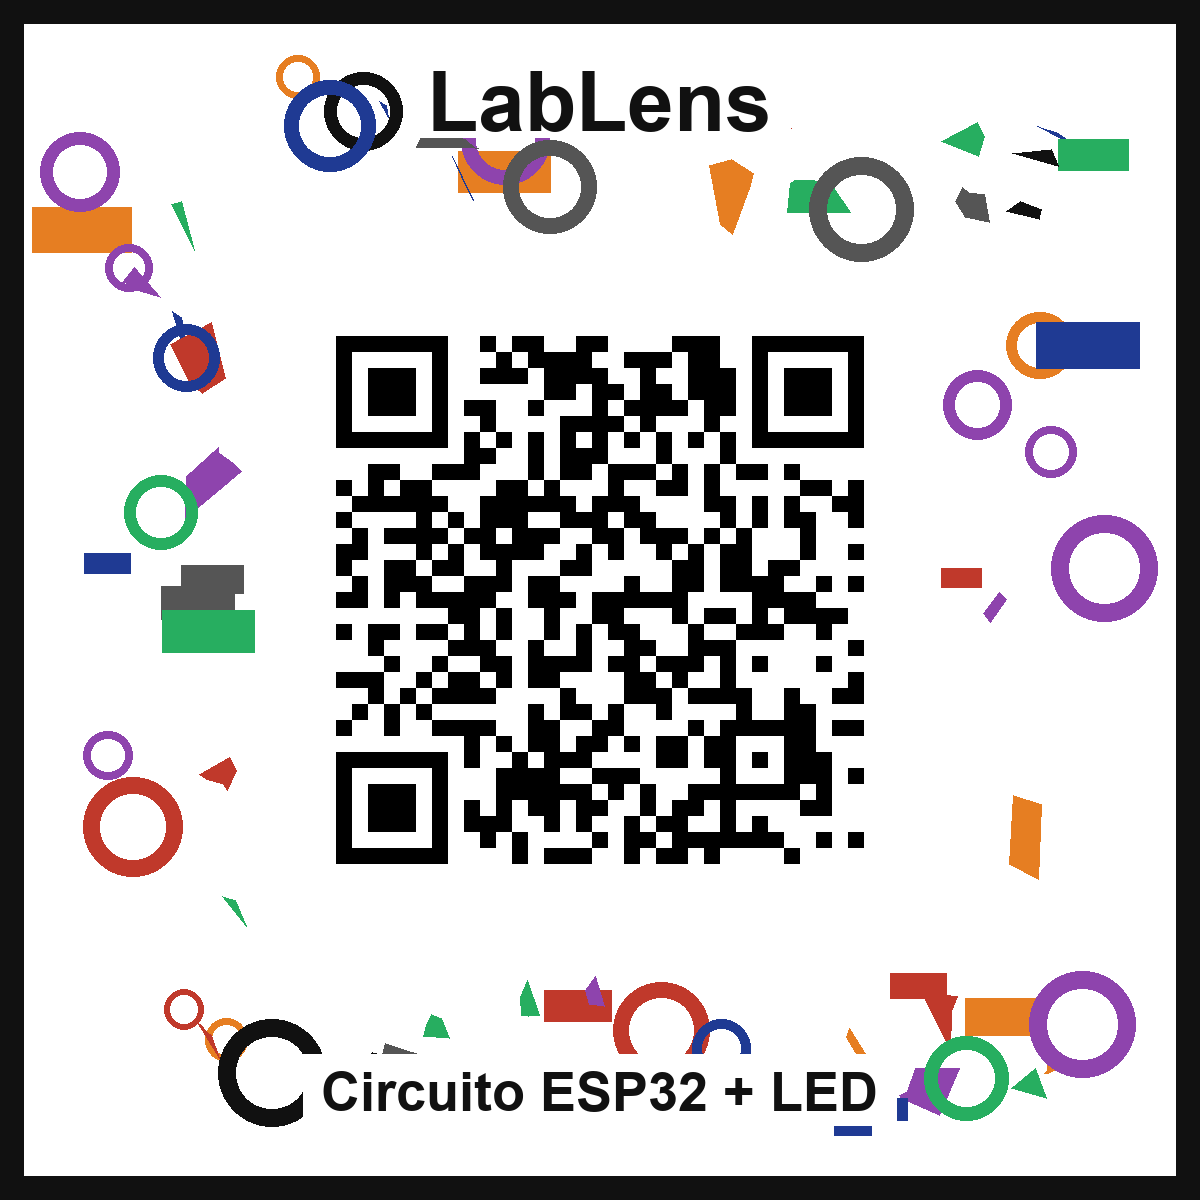
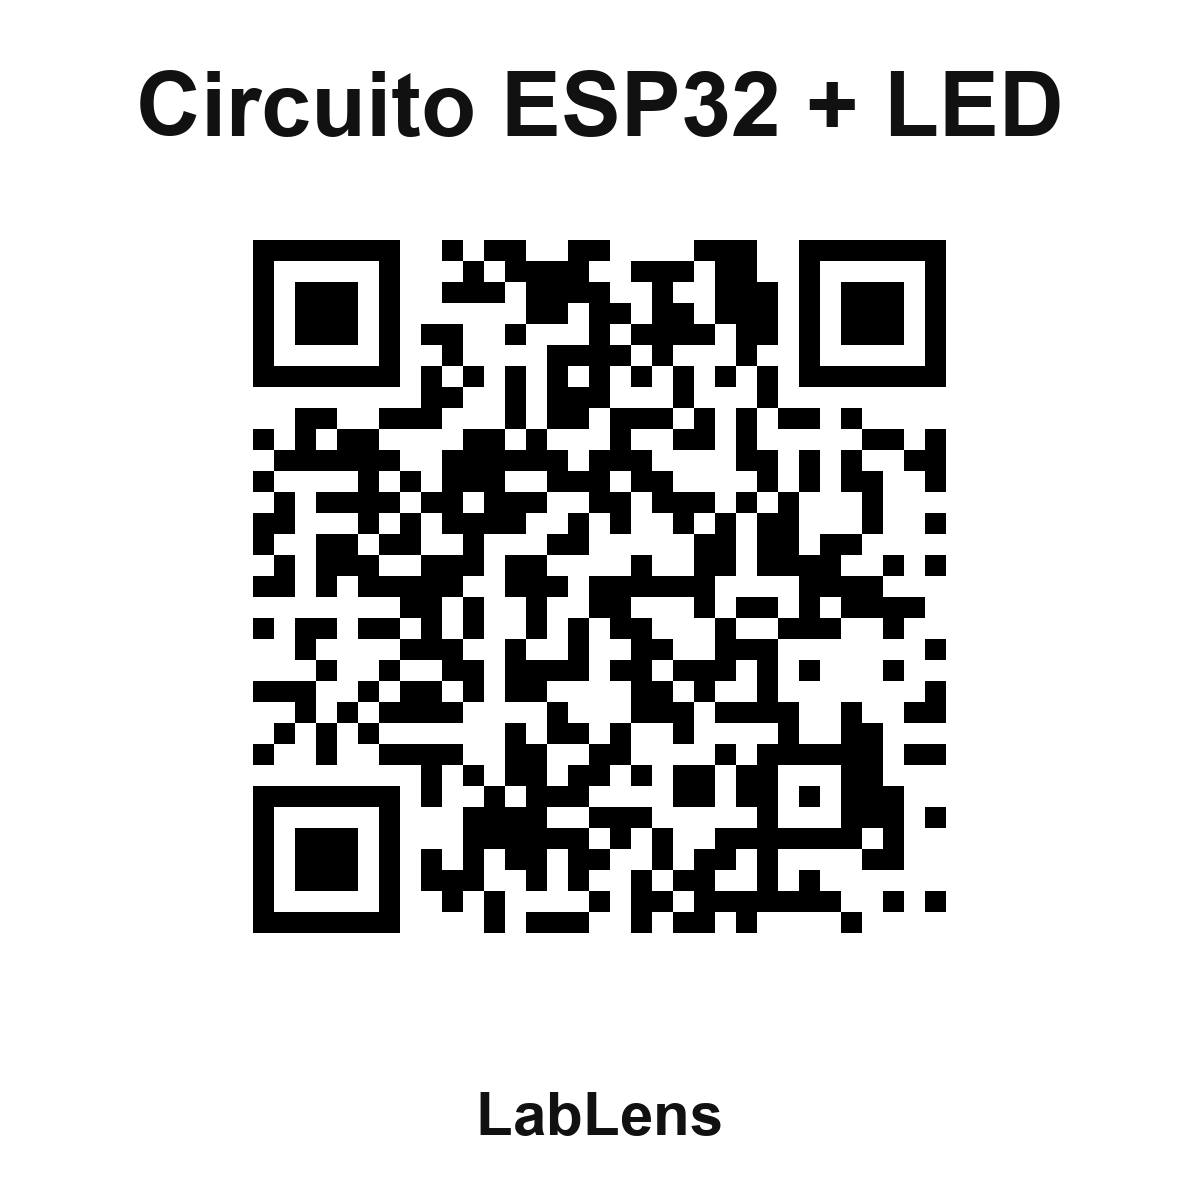
Ajustes finais. alterado o QRcode do circuito

diff --git a/src/features/lab-ar/content/circuito-esp32-led.ts b/src/features/lab-ar/content/circuito-esp32-led.ts
@@ -9,9 +9,9 @@ import { EquipamentoAR } from '../types';
  * -> barramento − -> fio laranja -> GND do ESP32.
  *
  * O alvo (assets/markers/circuito-esp32-led-qrcode.png) e o QR Code de
- * identificacao do circuito, numa moldura com desenhos que garante o
- * reconhecimento pelo ARCore. Gerado por scripts/gerar-qrcode-circuito.py, que
- * tambem calcula as posicoes (u, v) das partes. O modelo 3D (escala real) fica
+ * identificacao do circuito, com o nome dele em cima. Gerado por
+ * scripts/gerar-qrcode-circuito.py, que tambem calcula as posicoes (u, v) das
+ * partes. O modelo 3D (escala real) fica
  * centrado no QR Code; as partes fora do adesivo tem u ou v fora de 0..1.
  */
 

diff --git a/scripts/gerar-qrcode-circuito.py b/scripts/gerar-qrcode-circuito.py
@@ -6,9 +6,9 @@ A ideia e que cada circuito do laboratorio tenha o seu adesivo: o QR Code
 identifica o circuito, e o app reconhece o adesivo e mostra o modelo 3D do
 circuito em cima dele.
 
-Um QR Code sozinho e um padrao repetitivo de quadrados, ruim para o ARCore.
-Por isso o QR fica no centro de uma moldura com desenhos, texto e cores sem
-repeticao nem simetria: e a moldura que garante o reconhecimento rapido.
+O adesivo tem so o QR Code, com o nome do circuito em cima e o nome do app
+embaixo. Os textos tambem ajudam o ARCore, porque o QR Code sozinho e um
+padrao repetitivo de quadrados.
 
 O modelo 3D (assets/models/circuito-esp32-led.glb, em escala real) e centrado
 no adesivo, deitado no mesmo plano, girado para a protoboard ficar na
@@ -25,7 +25,6 @@ Uso:  python scripts/gerar-qrcode-circuito.py   (requer Pillow e segno)
 """
 import math
 import os
-import random
 
 import segno
 from PIL import Image, ImageDraw, ImageFont
@@ -37,7 +36,6 @@ CONTEUDO_QR = "LabLens:circuito-esp32-led"
 NOME = "Circuito ESP32 + LED"
 LARGURA_METROS = 0.06  # tamanho real do adesivo impresso (ou exibido na tela)
 TAMANHO_PX = 1200
-SEMENTE = 2026  # fixa o desenho da moldura: rodar de novo gera a mesma imagem
 
 ESCALA_MODELO = 0.5  # metade do tamanho real: a protoboard fica com ~8 x 3 cm sobre o QR Code de 6 cm
 ROTACAO_Y = 90  # graus; deita a protoboard na horizontal, com o ESP32 a esquerda
@@ -55,7 +53,6 @@ PARTES = {
 
 # Fontes com acentos (Windows, Linux, macOS); sem nenhuma delas, usa a fonte embutida do Pillow.
 FONTES = ["arialbd.ttf", "DejaVuSans-Bold.ttf", "/System/Library/Fonts/Supplemental/Arial Bold.ttf"]
-CORES = ["#111111", "#1f3a93", "#c0392b", "#e67e22", "#27ae60", "#8e44ad", "#555555"]
 
 
 def fonte(tamanho):
@@ -67,64 +64,31 @@ def fonte(tamanho):
     return ImageFont.load_default(size=tamanho)
 
 
-def desenhar_moldura(desenho, t, area_livre):
-    """Formas aleatorias (com semente fixa) so na moldura, fora da area do QR Code."""
-    sorteio = random.Random(SEMENTE)
-    x0, y0, x1, y1 = area_livre
-    colocadas = 0
-    while colocadas < 70:
-        cx, cy = sorteio.uniform(0.06, 0.94) * t, sorteio.uniform(0.06, 0.94) * t
-        raio = sorteio.uniform(0.015, 0.045) * t
-        if x0 - raio < cx < x1 + raio and y0 - raio < cy < y1 + raio:
-            continue
-        cor = sorteio.choice(CORES)
-        forma = sorteio.random()
-        if forma < 0.45:
-            lados = sorteio.randint(3, 6)
-            angulos = sorted(sorteio.uniform(0, 2 * math.pi) for _ in range(lados))
-            pontos = []
-            for a in angulos:
-                r = raio * sorteio.uniform(0.5, 1)
-                pontos.append((cx + r * math.cos(a), cy + r * math.sin(a)))
-            desenho.polygon(pontos, fill=cor)
-        elif forma < 0.75:
-            desenho.ellipse([cx - raio, cy - raio, cx + raio, cy + raio], outline=cor, width=max(3, int(raio * 0.35)))
-        else:
-            desenho.rectangle([cx - raio, cy - raio * 0.45, cx + raio, cy + raio * 0.45], fill=cor)
-        colocadas += 1
-
-
 def main():
     t = TAMANHO_PX
     imagem = Image.new("RGB", (t, t), "white")
     desenho = ImageDraw.Draw(imagem)
 
-    # QR Code no centro, ocupando pouco mais da metade do adesivo, com a margem branca exigida pelo padrao.
+    # Nome do circuito em cima, QR Code no centro (com a margem branca exigida pelo padrao) e nome do app embaixo.
+    titulo = fonte(int(t * 0.075))
+    rodape = fonte(int(t * 0.05))
     qr = segno.make(CONTEUDO_QR, error="h")
     modulos = qr.symbol_size(border=4)[0]
-    escala = int(t * 0.56 / modulos)
+    escala = int(t * 0.74 / modulos)
     lado_qr = modulos * escala
-    inicio = (t - lado_qr) // 2
-    matriz = qr.matrix_iter(border=4)
-    for linha, valores in enumerate(matriz):
+    inicio_x = (t - lado_qr) // 2
+    inicio_y = int(t * 0.13)
+    for linha, valores in enumerate(qr.matrix_iter(border=4)):
         for coluna, preto in enumerate(valores):
             if preto:
-                x = inicio + coluna * escala
-                y = inicio + linha * escala
+                x = inicio_x + coluna * escala
+                y = inicio_y + linha * escala
                 desenho.rectangle([x, y, x + escala - 1, y + escala - 1], fill="#000000")
 
-    desenhar_moldura(desenho, t, (inicio, inicio, inicio + lado_qr, inicio + lado_qr))
-
-    # Textos em faixas brancas: ajudam o reconhecimento e identificam o circuito para o aluno.
-    for texto, tamanho, y in (("LabLens", int(t * 0.07), int(t * 0.045)), (NOME, int(t * 0.045), int(t * 0.885))):
-        f = fonte(tamanho)
+    for texto, f, y in ((NOME, titulo, int(t * 0.045)), ("LabLens", rodape, int(t * 0.90))):
         caixa = desenho.textbbox((0, 0), texto, font=f)
-        largura = caixa[2] - caixa[0]
-        x = (t - largura) // 2
-        desenho.rectangle([x - 18, y - 8, x + largura + 18, y + (caixa[3] - caixa[1]) + 22], fill="white")
-        desenho.text((x - caixa[0], y), texto, fill="#111111", font=f)
+        desenho.text(((t - (caixa[2] - caixa[0])) // 2 - caixa[0], y), texto, fill="#111111", font=f)
 
-    desenho.rectangle([0, 0, t - 1, t - 1], outline="#111111", width=int(t * 0.02))
     imagem.save(SAIDA)
 
     print(f"alvo {t}x{t} px, largura fisica = {LARGURA_METROS:.3f} m, conteudo do QR: {CONTEUDO_QR}")

diff --git a/README.md b/README.md
@@ -223,7 +223,7 @@ Conteúdo correspondente é exibido (dados)
 
 O projeto usa **Image Tracking** (rastreamento de imagens naturais): cada objeto possui uma ou mais imagens de referência (os "alvos"). O ARCore procura essas imagens na câmera e estima continuamente sua posição e orientação no espaço. A técnica foi adotada por dispensar o treinamento de modelos de detecção, cujo desempenho em dispositivos móveis ainda é limitado, e por manter o rastreamento mesmo quando a imagem sai temporariamente de vista.
 
-Nos equipamentos, a imagem de referência é uma foto da própria peça. Nos circuitos, cuja aparência muda com a posição dos fios, a referência é um **QR Code de identificação**: cada circuito tem o seu, colado ou exibido ao lado da montagem. Como o QR Code puro é um padrão repetitivo, ruim para o ARCore, ele fica no centro de uma moldura com desenhos e textos sem repetição. O app não decodifica o conteúdo do QR Code: o adesivo inteiro é cadastrado como imagem de referência, e o modelo 3D do circuito aparece centrado nele, deitado na horizontal e em metade do tamanho real, para não cobrir demais o adesivo.
+Nos equipamentos, a imagem de referência é uma foto da própria peça. Nos circuitos, cuja aparência muda com a posição dos fios, a referência é um **QR Code de identificação**: cada circuito tem o seu, colado ou exibido ao lado da montagem. O adesivo traz o QR Code, o nome do circuito em cima e o nome do app embaixo; os textos também ajudam o reconhecimento, já que o QR Code é um padrão repetitivo de quadrados. O app não decodifica o conteúdo do QR Code: o adesivo inteiro é cadastrado como imagem de referência, e o modelo 3D do circuito aparece centrado nele, deitado na horizontal e em metade do tamanho real, para não cobrir demais o adesivo.
 
 O protótipo usa os exemplares abaixo como referência. Outros modelos e circuitos são adicionados pelo cadastro descrito na seção 13.
 
@@ -232,7 +232,7 @@ O protótipo usa os exemplares abaixo como referência. Outros modelos e circuit
 | Multímetro FT-266, frente | `assets/markers/ft266-frente.jpg` | 6,5 cm |
 | Multímetro FT-266, parte de trás | `assets/markers/ft266-traseira.jpg` | 6,5 cm |
 | Protoboard de demonstração | `assets/markers/protoboard-demo.png` | 16,5 cm |
-| Circuito ESP32 + LED | `assets/markers/circuito-esp32-led-qrcode.png` (QR Code com moldura) | 6 cm |
+| Circuito ESP32 + LED | `assets/markers/circuito-esp32-led-qrcode.png` (QR Code com o nome do circuito) | 6 cm |
 
 ### 11.2 Fluxo técnico
 
@@ -260,7 +260,7 @@ O protótipo usa os exemplares abaixo como referência. Outros modelos e circuit
 Os modelos estão em escala real e são posicionados a partir de cálculos feitos pelos scripts de `scripts/`:
 
 - `scripts/gerar-alvo-ft266.py` endireita as fotos do multímetro, recorta o painel e calcula a posição de cada parte e a transformação do modelo;
-- `scripts/gerar-qrcode-circuito.py` gera o QR Code do circuito com a moldura e calcula a posição de cada parte em relação a ele, com o modelo centrado no adesivo;
+- `scripts/gerar-qrcode-circuito.py` gera o QR Code do circuito com o título e calcula a posição de cada parte em relação a ele, com o modelo centrado no adesivo;
 - os dois scripts imprimem as posições `(u, v)` usadas nos arquivos de conteúdo.
 
 <img src="assets/markers/circuito-esp32-led-qrcode.png" alt="QR Code de identificação do circuito, usado como imagem de referência" width="240">
@@ -720,7 +720,7 @@ test: registra teste em dispositivo Android
 
 **Problema:** mesmo com as imagens do ESP32, o circuito demorava a ser reconhecido e só de perto, enquanto o multímetro era reconhecido com facilidade.  
 **Causa:** a aparência de um circuito muda a cada montagem, por causa dos fios, e a placa do ESP32 é pequena demais como referência.  
-**Solução:** identificar cada circuito por um QR Code próprio, numa moldura com desenhos que garante o reconhecimento, e mostrar o modelo 3D sobre ele.
+**Solução:** identificar cada circuito por um QR Code próprio, com o nome do circuito, e mostrar o modelo 3D sobre ele.
 
 ---
 
